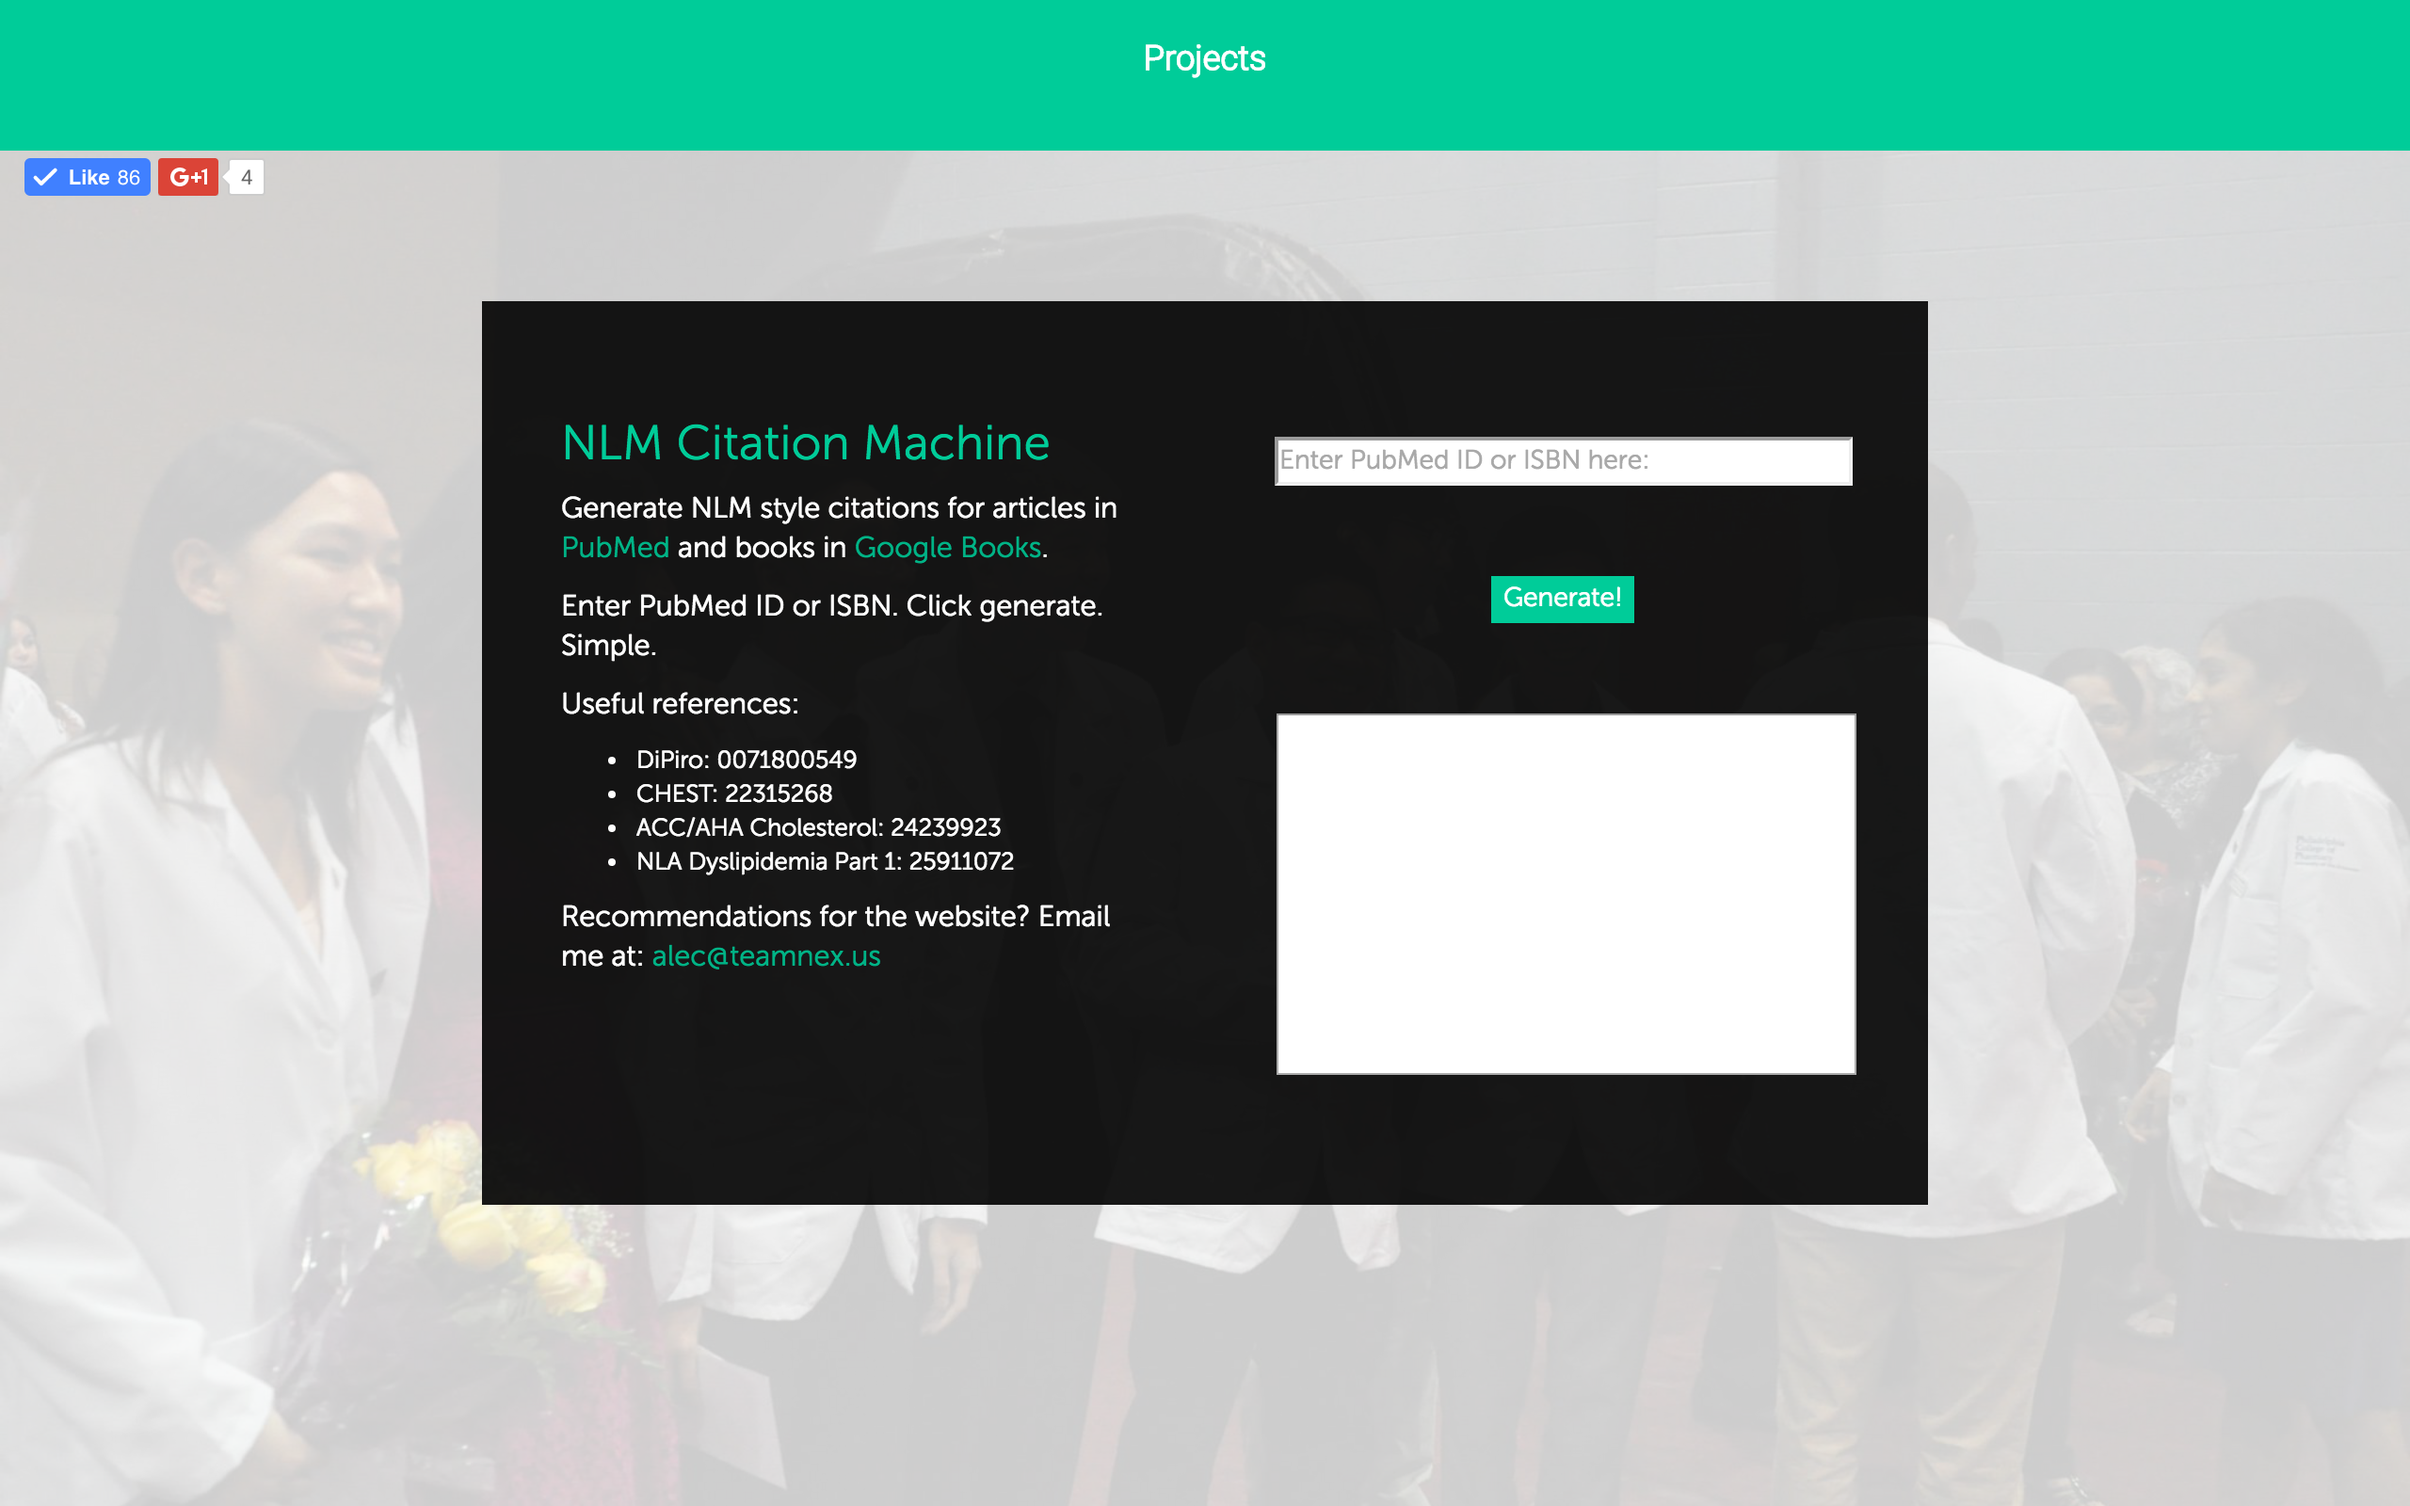
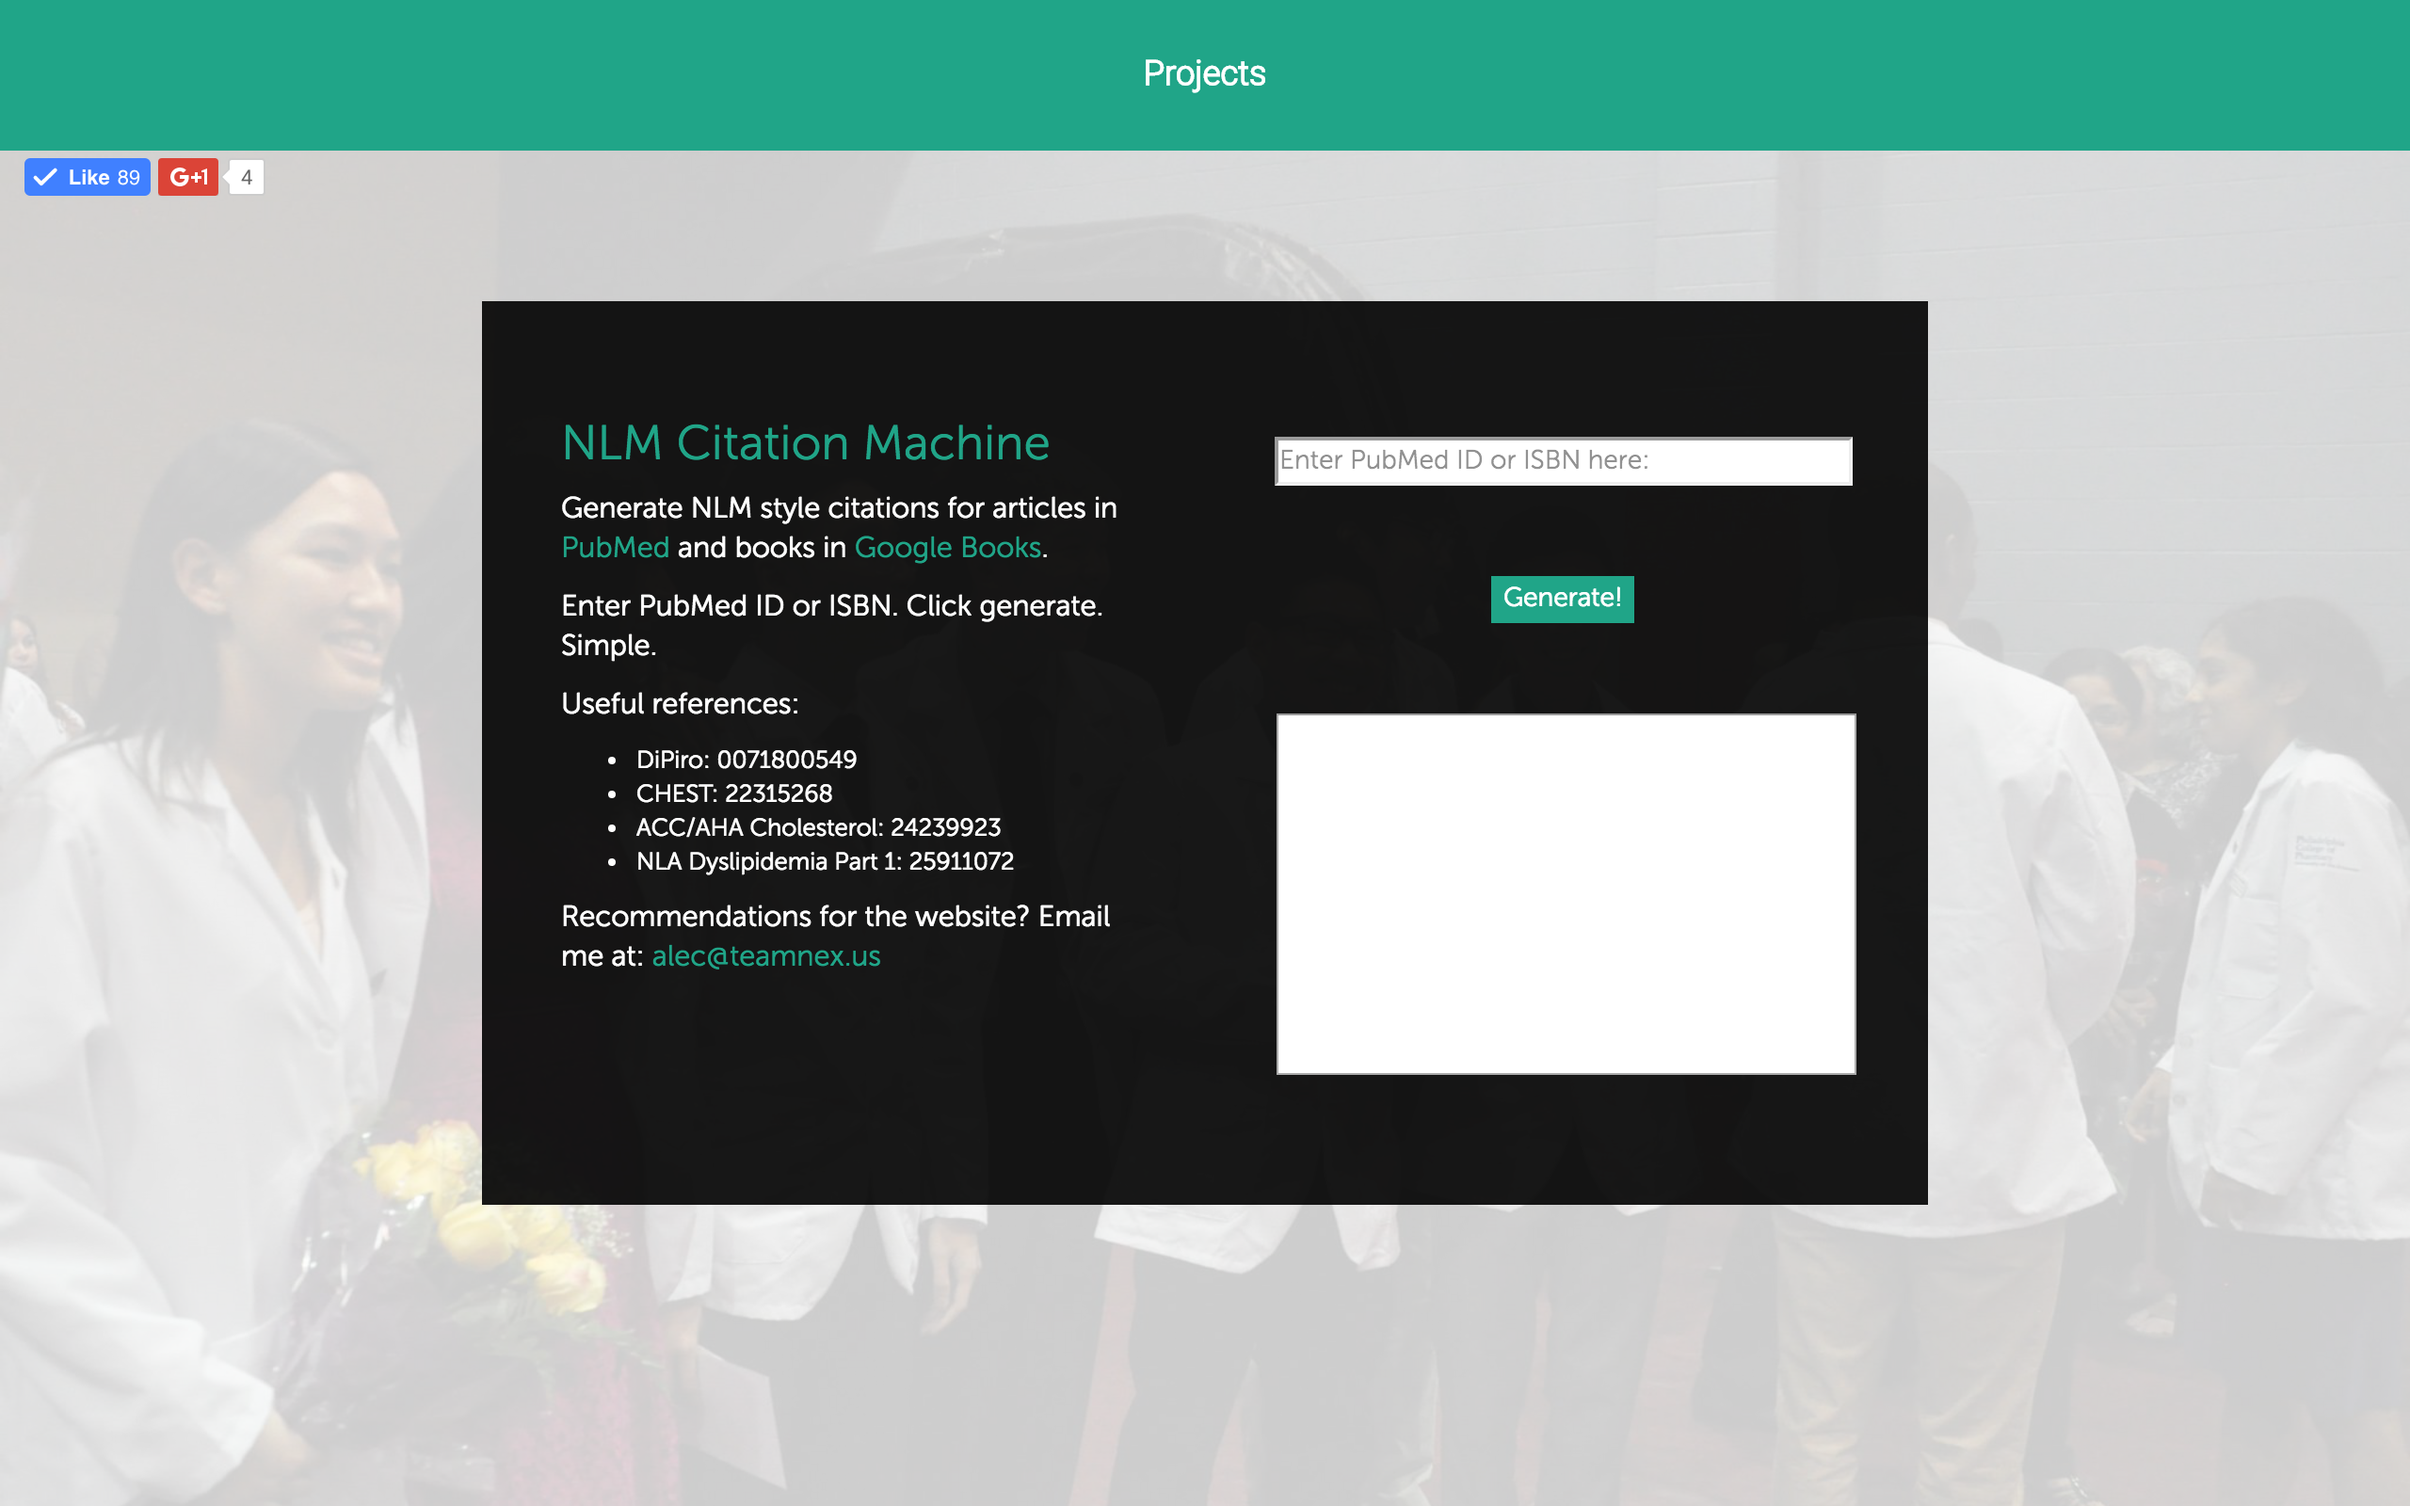
changed citation project pic

diff --git a/_site/css/frontpage.css b/_site/css/frontpage.css
@@ -149,7 +149,7 @@ li {
 }
 
 a {
-  color: #00B386;
+  color: #20a588;
 }
 
 a.anchor {

diff --git a/_site/css/citation.css b/_site/css/citation.css
@@ -89,5 +89,5 @@ li {
 }
 
 a {
-  color: #00B386;
+  color: #20a588;
 }
